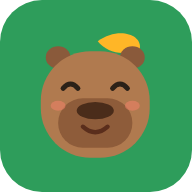
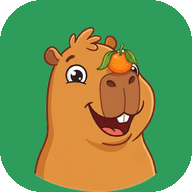
Usa as ilustrações da Capi em todo o app
Nove poses recortadas (ideia, ops, quase, estudando, rosto, joinha,
caderno, troféu e prancheta), cada uma ligada a um momento do jogo,
banner na página de apresentação e ícones do app a partir do rosto.

Claude-Session: https://claude.ai/code/session_01AexVD5KoVRrrrHJgt6QBQd

diff --git a/src/components/Capi.tsx b/src/components/Capi.tsx
@@ -1,78 +1,84 @@
 import { motion } from 'motion/react';
 
-export type Mood = 'happy' | 'think' | 'wow' | 'calm';
+/** Illustrated poses of Capi (files in /public/capi). */
+export type Pose =
+  | 'ideia' // pointing up with a light bulb: tips, default happy
+  | 'ops' // surprised with the orange: first mistake
+  | 'quase' // scratching head, sweat drop: "quase!"
+  | 'estudando' // at the laptop: explaining
+  | 'rosto' // face close-up: avatar
+  | 'joinha' // thumbs up: right answer, encouragement
+  | 'caderno' // writing in a notebook: thinking, worksheet
+  | 'trofeu' // holding a trophy: phase / mission / record
+  | 'prancheta'; // clipboard with chart: parents area
 
-/** Capi, the capybara who teaches. Pure SVG, no assets. */
+export type Mood = 'happy' | 'think' | 'wow' | 'calm' | 'oops';
+
+const MOOD_POSE: Record<Mood, Pose> = {
+  happy: 'ideia',
+  think: 'caderno',
+  wow: 'joinha',
+  calm: 'quase',
+  oops: 'ops',
+};
+
+const ALT: Record<Pose, string> = {
+  ideia: 'Capi tendo uma ideia',
+  ops: 'Capi surpresa',
+  quase: 'Capi sem graça',
+  estudando: 'Capi no computador',
+  rosto: 'Capi sorrindo',
+  joinha: 'Capi fazendo joinha',
+  caderno: 'Capi escrevendo no caderno',
+  trofeu: 'Capi com troféu',
+  prancheta: 'Capi com prancheta',
+};
+
+export const POSES = Object.keys(ALT) as Pose[];
+
+/** Capi, the capybara who teaches. `size` is the rendered height in px. */
 export default function Capi({
   size = 96,
   mood = 'happy',
+  pose,
   bounce = false,
   className = '',
 }: {
   size?: number;
   mood?: Mood;
+  pose?: Pose;
   bounce?: boolean;
   className?: string;
 }) {
-  const eye = (cx: number) =>
-    mood === 'happy' ? (
-      <path d={`M${cx - 6} 52 q6 -7 12 0`} stroke="#2B2118" strokeWidth="4" fill="none" strokeLinecap="round" />
-    ) : (
-      <g>
-        <circle cx={cx} cy={mood === 'think' ? 49 : 51} r={mood === 'wow' ? 6.5 : 5.5} fill="#2B2118" />
-        <circle cx={cx + 2} cy={mood === 'think' ? 47 : 49} r="2" fill="#fff" />
-      </g>
-    );
-
-  const mouth =
-    mood === 'wow' ? (
-      <ellipse cx="60" cy="86" rx="6" ry="7" fill="#5A2E1C" />
-    ) : mood === 'think' ? (
-      <path d="M53 86 h12" stroke="#5A2E1C" strokeWidth="3.5" strokeLinecap="round" />
-    ) : (
-      <path d="M50 83 q10 9 20 0" stroke="#5A2E1C" strokeWidth="3.5" fill="none" strokeLinecap="round" />
-    );
-
+  const p = pose ?? MOOD_POSE[mood];
   return (
-    <motion.svg
-      viewBox="0 0 120 120"
-      width={size}
-      height={size}
-      className={className}
-      animate={bounce ? { y: [0, -8, 0], rotate: [0, -3, 3, 0] } : { y: [0, -2, 0] }}
-      transition={{ duration: bounce ? 0.8 : 3, repeat: Infinity, ease: 'easeInOut' }}
-      aria-label="Capi, a capivara"
-      role="img"
-    >
-      {/* leaf hat */}
-      <path d="M62 14 C 78 2, 98 8, 96 20 C 84 26, 70 24, 62 14 Z" fill="#2E9D5B" />
-      <path d="M64 15 C 74 15, 84 16, 94 19" stroke="#1E6B3D" strokeWidth="2" fill="none" strokeLinecap="round" />
-      {/* ears */}
-      <ellipse cx="30" cy="27" rx="10" ry="9" fill="#8A5A3B" />
-      <ellipse cx="90" cy="27" rx="10" ry="9" fill="#8A5A3B" />
-      <ellipse cx="30" cy="28" rx="5" ry="4.5" fill="#5E3A24" />
-      <ellipse cx="90" cy="28" rx="5" ry="4.5" fill="#5E3A24" />
-      {/* head */}
-      <rect x="16" y="22" width="88" height="86" rx="40" fill="#B07A4F" />
-      <rect x="22" y="26" width="76" height="40" rx="20" fill="#BF8A5E" opacity="0.6" />
-      {/* snout */}
-      <rect x="30" y="60" width="60" height="40" rx="20" fill="#8E5C3A" />
-      <ellipse cx="60" cy="70" rx="15" ry="7" fill="#4A2C1A" />
-      <ellipse cx="54" cy="69" rx="3" ry="2" fill="#2B1A10" />
-      <ellipse cx="66" cy="69" rx="3" ry="2" fill="#2B1A10" />
-      {mouth}
-      {/* eyes */}
-      {eye(40)}
-      {eye(80)}
-      {/* cheeks */}
-      <ellipse cx="30" cy="66" rx="6" ry="4" fill="#F2826A" opacity="0.55" />
-      <ellipse cx="90" cy="66" rx="6" ry="4" fill="#F2826A" opacity="0.55" />
-      {mood === 'wow' && (
-        <g fill="#FFB627">
-          <path d="M8 40 l3 6 6 1 -5 4 1 6 -5 -3 -5 3 1 -6 -5 -4 6 -1z" />
-          <path d="M106 44 l2.5 5 5 .8 -4 3.4 1 5 -4.5 -2.5 -4.5 2.5 1 -5 -4 -3.4 5 -.8z" />
-        </g>
-      )}
-    </motion.svg>
+    <motion.img
+      key={p}
+      src={`/capi/${p}.webp`}
+      alt={ALT[p]}
+      draggable={false}
+      className={`select-none pointer-events-none object-contain ${className}`}
+      style={{ height: size, width: 'auto', maxWidth: size * 1.4 }}
+      initial={{ scale: 0.85, opacity: 0 }}
+      animate={
+        bounce
+          ? { scale: 1, opacity: 1, y: [0, -8, 0], rotate: [0, -3, 3, 0] }
+          : { scale: 1, opacity: 1, y: [0, -2, 0] }
+      }
+      transition={{
+        scale: { duration: 0.25 },
+        opacity: { duration: 0.2 },
+        y: { duration: bounce ? 0.8 : 3, repeat: Infinity, ease: 'easeInOut' },
+        rotate: { duration: 0.8, repeat: Infinity, ease: 'easeInOut' },
+      }}
+    />
   );
+}
+
+/** Preload every pose so swaps are instant. */
+export function preloadCapi() {
+  POSES.forEach((p) => {
+    const img = new Image();
+    img.src = `/capi/${p}.webp`;
+  });
 }

diff --git a/src/screens/Landing.tsx b/src/screens/Landing.tsx
@@ -26,7 +26,7 @@ function Demo() {
   return (
     <div className="card p-5 max-w-md mx-auto">
       <div className="flex items-center gap-2 mb-3">
-        <Capi size={48} mood={state === 'right' ? 'wow' : 'happy'} bounce={state === 'right'} />
+        <Capi size={64} pose={state === 'right' ? 'joinha' : state === 'wrong' ? 'ops' : 'ideia'} bounce={state === 'right'} className="shrink-0" />
         <div className="font-bold">
           {state === 'right'
             ? 'Isso! Viu como é? Agora imagine isso todo dia, 10 minutinhos.'
@@ -98,7 +98,7 @@ function PhoneMock() {
     <div className="relative mx-auto w-[260px] h-[520px] rounded-[2.6rem] bg-forest p-2.5 shadow-2xl rotate-2">
       <div className="w-full h-full rounded-[2.1rem] bg-cream overflow-hidden flex flex-col">
         <div className="px-4 pt-5 pb-2 flex items-center gap-2">
-          <Capi size={36} mood="think" />
+          <Capi size={44} pose="estudando" />
           <div className="text-[11px] font-bold leading-tight bg-white border border-sand rounded-xl px-2 py-1">
             2 − 7 não dá. Pedimos 1 emprestado das dezenas...
           </div>
@@ -145,7 +145,7 @@ export default function Landing() {
     <div className="bg-cream text-ink">
       <header className="sticky top-0 z-30 bg-cream/90 backdrop-blur border-b-2 border-sand">
         <div className="max-w-5xl mx-auto flex items-center gap-2 px-4 h-16">
-          <Capi size={40} />
+          <Capi size={44} pose="rosto" />
           <div className="font-display text-2xl font-bold flex-1">
             Conta <span className="text-leaf">Comigo</span>
           </div>
@@ -205,6 +205,21 @@ export default function Landing() {
             frente.
           </p>
         </div>
+      </section>
+
+      {/* Banner */}
+      <section className="max-w-5xl mx-auto px-4 pt-14">
+        <p className="text-center text-lg font-semibold text-muted">E se a tela que ele já pede ensinasse matemática?</p>
+        <h2 className="font-display text-3xl sm:text-4xl font-bold text-center mt-1 mb-6">
+          No Conta Comigo, <span className="text-leaf">o jogo é a conta.</span>
+        </h2>
+        <img
+          src="/capi/banner.webp"
+          alt="Criança jogando no celular ao lado da Capi"
+          className="w-full rounded-[2rem] border-2 border-sand"
+          style={{ boxShadow: '0 6px 0 var(--color-sand)' }}
+          loading="lazy"
+        />
       </section>
 
       {/* Demo */}
@@ -287,7 +302,7 @@ export default function Landing() {
 
       {/* Final CTA */}
       <section className="bg-leaf text-white py-14 text-center px-4">
-        <Capi size={110} mood="wow" bounce className="mx-auto" />
+        <Capi size={150} pose="trofeu" bounce className="mx-auto" />
         <h2 className="font-display text-3xl sm:text-4xl font-bold mt-3">Conta comigo? Conta com a Capi!</h2>
         <p className="font-semibold text-white/90 mt-2 mb-7">Comece hoje a missão do dia. Leva 10 minutos.</p>
         <button className="btn btn-sun text-xl py-4 px-8" onClick={start}>

diff --git a/src/screens/Play.tsx b/src/screens/Play.tsx
@@ -86,7 +86,7 @@ function River({ built, total, sticker, done }: { built: number; total: number; 
         animate={{ left: `calc(${pos}% - 24px)` }}
         transition={{ type: 'spring', damping: 15 }}
       >
-        <Capi size={52} mood={done ? 'wow' : 'happy'} bounce={done} />
+        <Capi size={56} pose={done ? 'joinha' : 'ideia'} bounce={done} />
       </motion.div>
     </div>
   );
@@ -209,7 +209,7 @@ export default function Play({ mode }: { mode: PlayMode }) {
         setMistakes((m) => m + 1);
         setAttempts(1);
         const t = pickOne(ENCOURAGE);
-        setMsg({ text: `${t} Quer tentar de novo ou quer que eu explique?`, mood: 'calm' });
+        setMsg({ text: `${t} Quer tentar de novo ou quer que eu explique?`, mood: 'oops' });
         speak(`${t} Quer tentar de novo, ou quer que eu explique?`);
         setStatus('retryOffer');
       } else {
@@ -253,6 +253,7 @@ export default function Play({ mode }: { mode: PlayMode }) {
         <TopBar title={title} backTo="/app/aventura" />
         <main className="max-w-xl mx-auto px-4 pt-6 pb-20 text-center">
           <River built={phase.count} total={phase.count} sticker={phase.sticker} done />
+          <Capi size={150} pose="trofeu" bounce className="mx-auto mt-6" />
           <motion.h2 initial={{ scale: 0.6 }} animate={{ scale: 1 }} className="font-display text-4xl font-bold text-leaf-dark mt-6">
             Fase completa!
           </motion.h2>
@@ -348,7 +349,7 @@ export default function Play({ mode }: { mode: PlayMode }) {
 
         {/* Capi feedback */}
         <div className="flex items-center gap-2 min-h-16">
-          <Capi size={56} mood={msg?.mood ?? 'happy'} bounce={status === 'right'} className="shrink-0" />
+          <Capi size={72} mood={msg?.mood ?? (status === 'afterExplain' ? 'think' : 'happy')} bounce={status === 'right'} className="shrink-0" />
           <AnimatePresence mode="wait">
             <motion.div
               key={msg?.text ?? 'idle'}
@@ -432,7 +433,7 @@ export default function Play({ mode }: { mode: PlayMode }) {
             exit={{ opacity: 0 }}
           >
             <motion.div initial={{ scale: 0.7 }} animate={{ scale: 1 }} className="bg-cream rounded-[2rem] p-6 text-center max-w-sm w-full">
-              <Capi size={110} mood="wow" bounce className="mx-auto" />
+              <Capi size={150} pose="trofeu" bounce className="mx-auto" />
               <h2 className="font-display text-3xl font-bold text-leaf-dark mt-2">Missão cumprida!</h2>
               <p className="font-semibold text-muted mt-2 mb-5">Você fez {goal} contas hoje. Amanhã tem mais!</p>
               <div className="flex flex-col gap-3">

diff --git a/src/screens/Race.tsx b/src/screens/Race.tsx
@@ -103,7 +103,7 @@ export default function Race() {
         <TopBar title="Corrida da Tabuada" />
         <Page>
           <div className="flex items-center gap-3 mb-5">
-            <Capi size={72} mood="wow" />
+            <Capi size={90} pose="ideia" />
             <p className="font-bold text-muted">Quantas contas você acerta em 60 segundos? Escolha a pista:</p>
           </div>
           <div className="grid grid-cols-3 gap-3">
@@ -142,7 +142,7 @@ export default function Race() {
       <div className="min-h-dvh bg-cream">
         <TopBar title="Corrida da Tabuada" />
         <Page className="text-center">
-          <Capi size={120} mood="wow" bounce className="mx-auto" />
+          <Capi size={150} pose="trofeu" bounce className="mx-auto" />
           <h2 className="font-display text-4xl font-bold mt-2">{record ? 'Novo recorde!' : 'Fim da corrida!'}</h2>
           <div className="font-display text-7xl font-bold text-leaf-dark my-3">{score}</div>
           <p className="font-bold text-muted mb-6">contas certas · recorde: {Math.max(best[mode!] ?? 0, score)}</p>
@@ -172,7 +172,7 @@ export default function Race() {
         <div className="relative h-14 rounded-full bg-sand overflow-hidden">
           <motion.div className="absolute inset-y-0 left-0 bg-leaf/30" animate={{ width: `${((DURATION - time) / DURATION) * 100}%` }} />
           <motion.div className="absolute top-0.5" animate={{ left: `calc(${Math.min(score * 3, 90)}% )` }}>
-            <Capi size={50} />
+            <Capi size={50} pose="ideia" />
           </motion.div>
           <div className="absolute right-3 top-1/2 -translate-y-1/2 font-display text-2xl font-bold text-leaf-dark">{score}</div>
         </div>

diff --git a/src/screens/Home.tsx b/src/screens/Home.tsx
@@ -21,8 +21,8 @@ export default function Home() {
   return (
     <Page>
       <div className="flex items-center gap-3 mb-5">
-        <div className="w-14 h-14 rounded-2xl bg-white border-2 border-sand flex items-center justify-center overflow-hidden">
-          <Capi size={52} />
+        <div className="w-14 h-14 rounded-2xl bg-white border-2 border-sand flex items-end justify-center overflow-hidden">
+          <Capi size={54} pose="rosto" />
         </div>
         <div className="flex-1 min-w-0">
           <div className="font-display text-2xl font-semibold truncate">Oi, {profile.name}!</div>
@@ -39,8 +39,8 @@ export default function Home() {
         className="relative w-full text-left rounded-[2rem] overflow-hidden bg-leaf text-white p-5 mb-4"
         style={{ boxShadow: '0 6px 0 var(--color-leaf-dark)' }}
       >
-        <div className="absolute -right-6 -bottom-8 opacity-95">
-          <Capi size={150} mood="wow" />
+        <div className="absolute -right-2 bottom-2">
+          <Capi size={150} pose="ideia" />
         </div>
         <div className="absolute bottom-0 left-0 right-0 h-8 water opacity-60" />
         <div className="relative max-w-[62%]">

diff --git a/src/screens/Parents.tsx b/src/screens/Parents.tsx
@@ -1,5 +1,5 @@
 import { useState } from 'react';
-import { Lock, TrendingUp, AlertTriangle, Settings, FileText, Clock, Flame, CheckCircle2 } from 'lucide-react';
+import { TrendingUp, AlertTriangle, Settings, FileText, Clock, Flame, CheckCircle2 } from 'lucide-react';
 import Capi from '../components/Capi';
 import Keypad from '../components/Keypad';
 import { Page, ProgressBar } from '../components/ui';
@@ -54,7 +54,7 @@ function PinGate({ onOk }: { onOk: () => void }) {
 
   return (
     <Page className="text-center">
-      <Lock className="mx-auto text-leaf-dark mt-4" size={40} />
+      <Capi size={130} pose="prancheta" className="mx-auto mt-2" />
       <h1 className="font-display text-3xl font-bold mt-2">Área dos pais</h1>
       <p className="font-semibold text-muted mt-1 mb-6">
         {forgot
@@ -119,7 +119,7 @@ function Dashboard() {
   return (
     <Page>
       <div className="flex items-center gap-3 mb-5">
-        <Capi size={56} mood="calm" />
+        <Capi size={72} pose="prancheta" />
         <div>
           <h1 className="font-display text-2xl font-bold">Painel dos pais</h1>
           <p className="text-sm font-bold text-muted">

diff --git a/index.html b/index.html
@@ -9,12 +9,13 @@
       content="App de matemática para crianças do 1º ao 5º ano. O jogo só avança com a conta certa e, quando erra, a Capi explica passo a passo, com voz, do jeito da escola."
     />
     <meta name="theme-color" content="#2E9D5B" />
-    <link rel="icon" href="/icon.svg" type="image/svg+xml" />
+    <link rel="icon" href="/icon-192.png" type="image/png" />
     <link rel="apple-touch-icon" href="/icon-192.png" />
     <link rel="manifest" href="/manifest.webmanifest" />
     <meta property="og:title" content="Conta Comigo · Matemática sem briga" />
     <meta property="og:description" content="Ele joga, a conta abre o caminho. Errou? A Capi explica com voz, do jeito da escola." />
     <meta property="og:type" content="website" />
+    <meta property="og:image" content="/capi/banner.webp" />
   </head>
   <body>
     <div id="root"></div>

diff --git a/src/screens/Onboarding.tsx b/src/screens/Onboarding.tsx
@@ -13,7 +13,7 @@ export default function Onboarding() {
   return (
     <div className="min-h-dvh bg-cream dotgrid flex flex-col items-center justify-center px-5 py-10">
       <motion.div key={step} initial={{ opacity: 0, y: 20 }} animate={{ opacity: 1, y: 0 }} className="w-full max-w-md text-center">
-        <Capi size={140} mood={step === 0 ? 'happy' : 'wow'} bounce={step === 0} className="mx-auto" />
+        <Capi size={170} pose={step === 0 ? 'ideia' : step === 1 ? 'rosto' : 'joinha'} bounce={step === 0} className="mx-auto" />
         {step === 0 && (
           <>
             <h1 className="font-display text-4xl font-bold mt-4">Oi! Eu sou a Capi.</h1>

diff --git a/src/main.tsx b/src/main.tsx
@@ -1,6 +1,7 @@
 import { StrictMode } from 'react';
 import { createRoot } from 'react-dom/client';
 import App from './App.tsx';
+import { preloadCapi } from './components/Capi';
 import './index.css';
 
 createRoot(document.getElementById('root')!).render(
@@ -8,6 +9,8 @@ createRoot(document.getElementById('root')!).render(
     <App />
   </StrictMode>,
 );
+
+preloadCapi();
 
 if ('serviceWorker' in navigator && import.meta.env.PROD) {
   window.addEventListener('load', () => {

diff --git a/public/sw.js b/public/sw.js
@@ -1,8 +1,8 @@
 // Conta Comigo — offline support: network first for pages, cache first for assets.
-const CACHE = 'conta-comigo-v1';
+const CACHE = 'conta-comigo-v2';
 
 self.addEventListener('install', (e) => {
-  e.waitUntil(caches.open(CACHE).then((c) => c.addAll(['/', '/index.html', '/manifest.webmanifest', '/icon.svg'])));
+  e.waitUntil(caches.open(CACHE).then((c) => c.addAll(['/', '/index.html', '/manifest.webmanifest', '/icon-192.png'])));
   self.skipWaiting();
 });
 

diff --git a/src/components/ExplainSheet.tsx b/src/components/ExplainSheet.tsx
@@ -67,7 +67,7 @@ export default function ExplainSheet({
         </div>
 
         <div className="flex items-start gap-2 mb-3">
-          <Capi size={64} mood={step.tip ? 'wow' : last ? 'happy' : 'think'} className="shrink-0" />
+          <Capi size={76} pose={step.tip ? 'ideia' : last ? 'joinha' : 'estudando'} className="shrink-0" />
           <AnimatePresence mode="wait">
             <motion.div
               key={i}
